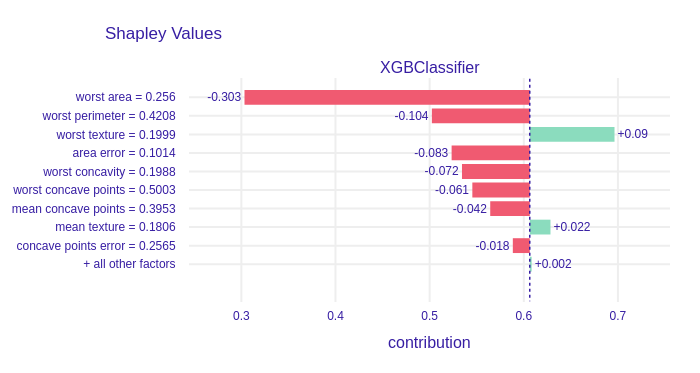
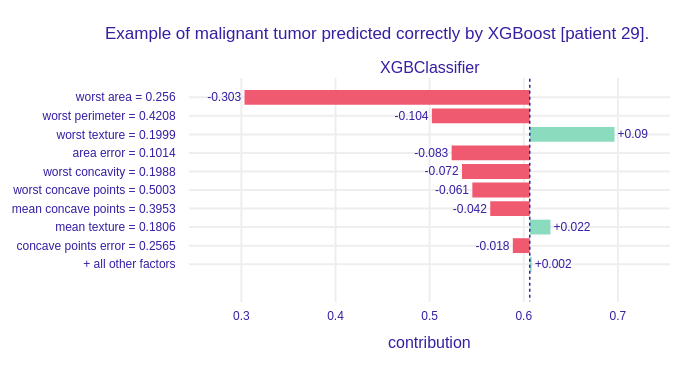
Update in figures and appendix which adds captions to figures

Changed region(s): [[0.15, 0.059, 0.93, 0.118]]

diff --git a/Homeworks/HW2/ZuzannaKwiatkowska/appendix.py b/Homeworks/HW2/ZuzannaKwiatkowska/appendix.py
@@ -33,30 +33,34 @@ if __name__ == '__main__':
     print(results.loc[interesting_predictions])
 
     # generate SHAP explanation for 3 predictions
+    titles = [
+        "Example of malignant tumor predicted correctly by XGBoost [patient 29].",
+        "Example of malignant tumor predicted as benign by XGBoost [patient 41].",
+        "Example of benign tumor predicted correctly by XGBoost [patient 285]."
+    ]
     xgboost_explainer = dx.Explainer(xgboost_model, data_test, target_test)
-    for prediction_no in tqdm(interesting_predictions, desc="3 predictions viz gen"):
+    for i, prediction_no in enumerate(interesting_predictions):
         explanation = xgboost_explainer.predict_parts(data_test.loc[[prediction_no]], type="shap")
-        fig = explanation.plot(show=False)
+        fig = explanation.plot(show=False, title=titles[i])
         fig.write_image(f"resources/shap_prediction{prediction_no}.png")
 
-    # generate SHAP explanation with different "highest importance" features (find them first)
-    explanation = xgboost_explainer.predict_parts(data_test.iloc[[0]], type="shap")
-    agg = explanation.result.groupby(by="variable")["contribution"].mean().sort_values(key=abs, ascending=False)
-    feature = agg.index[0].split(" = ")[0]
+    # generate SHAP explanation with different "highest importance" features (auto choice)
+    interesting_predictions = [47, 421]
+    print(results.loc[interesting_predictions])
 
-    for ix in tqdm(data_test.index[1:], desc="HI finder"):
-        c_explanation = xgboost_explainer.predict_parts(data_test.loc[[ix]], type="shap")
-        agg = c_explanation.result.groupby(by="variable")["contribution"].mean().sort_values(key=abs, ascending=False)
-        candidate = agg.index[0].split(" = ")[0]
-        if candidate != feature:
-            explanation.plot(show=False).write_image(f"resources/various_importance{data_test.index[0]}.png")
-            c_explanation.plot(show=False).write_image(f"resources/various_importance{ix}.png")
-            break
+    titles = [
+        "Example of malignant tumor predicted correctly by XGBoost [patient 47].",
+        "Example of correct benign tumor prediction by XGBoost [patient 421]."
+    ]
+    for i, prediction_no in enumerate(interesting_predictions):
+        explanation = xgboost_explainer.predict_parts(data_test.loc[[prediction_no]], type="shap")
+        fig = explanation.plot(show=False, title=titles[i])
+        fig.write_image(f"resources/various_importance{prediction_no}.png")
 
     # generate SHAP explanation where same feature has +/- (omitted due to worst area 29 and 41)
     # train MLP and calculate predictions
     mlp_model = MLPClassifier(max_iter=1000).fit(data_train, target_train)
     mlp_explainer = dx.Explainer(mlp_model, data_test, target_test)
     explanation = mlp_explainer.predict_parts(data_test.loc[[41]], type="shap")
-    fig = explanation.plot(show=False)
+    fig = explanation.plot(show=False, title="Example of malignant tumor predicted correctly by MLP [patient 41].")
     fig.write_image(f"resources/shap_mlp_prediction41.png")
